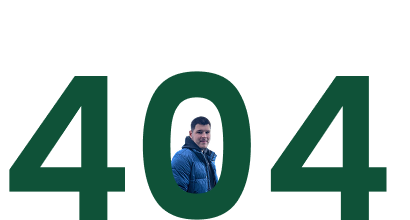
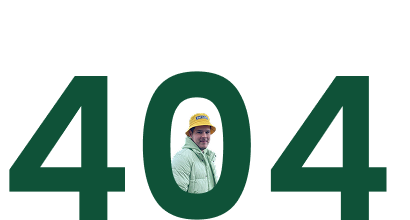
fix(front): 404 image on not found page

Changed region(s): [[0.4098, 0.4909, 0.5561, 0.9]]

diff --git a/web/src/pages/NotFoundPage.tsx b/web/src/pages/NotFoundPage.tsx
@@ -15,7 +15,7 @@ export function NotFoundPage() {
           <img
             src="/404.png"
             alt="404"
-            className="mx-auto -mt-8 sm:-mt-12 md:-mt-16 mb-8 w-56 sm:w-72 md:w-80"
+            className="mx-auto -mt-8 sm:-mt-12 md:-mt-16 mb-8 w-72 sm:w-96 md:w-md"
           />
 
           <h2 className="text-2xl sm:text-3xl md:text-4xl font-bold text-content-primary mb-4">
